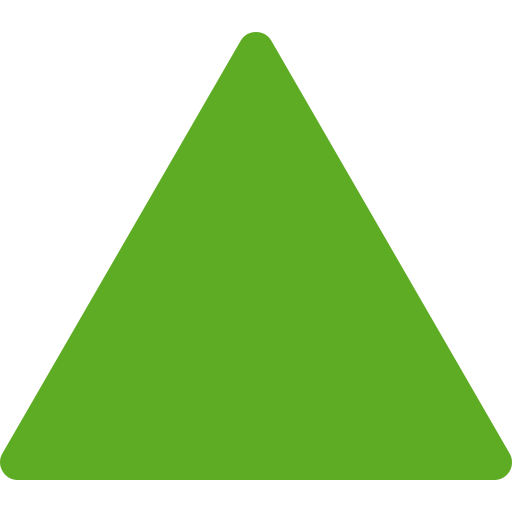
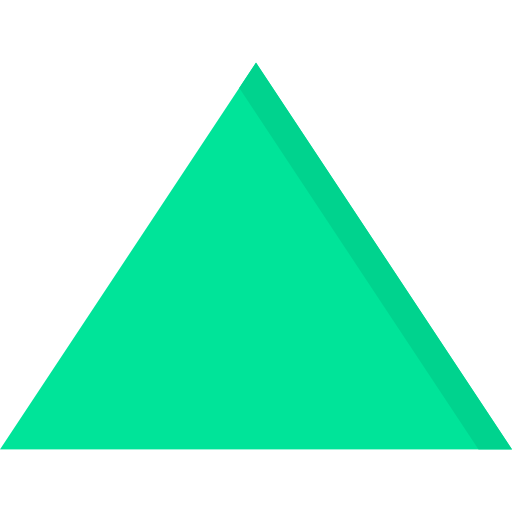
update traingles assets;

diff --git a/src/MainPage.css b/src/MainPage.css
@@ -9,15 +9,15 @@
 	display: flex;
 	flex-direction: column;
 	align-items: center;
-	width: 200px;
-	padding: 70px;
+	width: 300px;
+	padding: 50px;
 	border: 1px solid #ccc;
 	border-radius: 5px;
 	transition: background-color 0.3s;
 }
 
 .thumbnail img {
-	width: 100%;
+	width: 50%;
 	height: auto;
 	border-radius: 5px;
 }
@@ -29,7 +29,7 @@
 .thumbnail:hover {
 	animation: shake 0.5s 1;
 	background-color: rgba(0, 0, 0, 0.1);
-	border: solid 2px black;
+	border: solid 1px black;
 }
 
 @keyframes shake {

diff --git a/src/MainPage.js b/src/MainPage.js
@@ -40,7 +40,7 @@ const MainPage = ({ type }) => {
 						<img src={getImageSource(item)} alt={item.name} />
 
 						<div className="thumbnail-details">
-							<h3>{item.name}</h3>
+							<h6>{item.name}</h6>
 							{Object.entries(item).map(([key, value]) => {
 								if (!excludedFields.includes(key)) {
 									return (